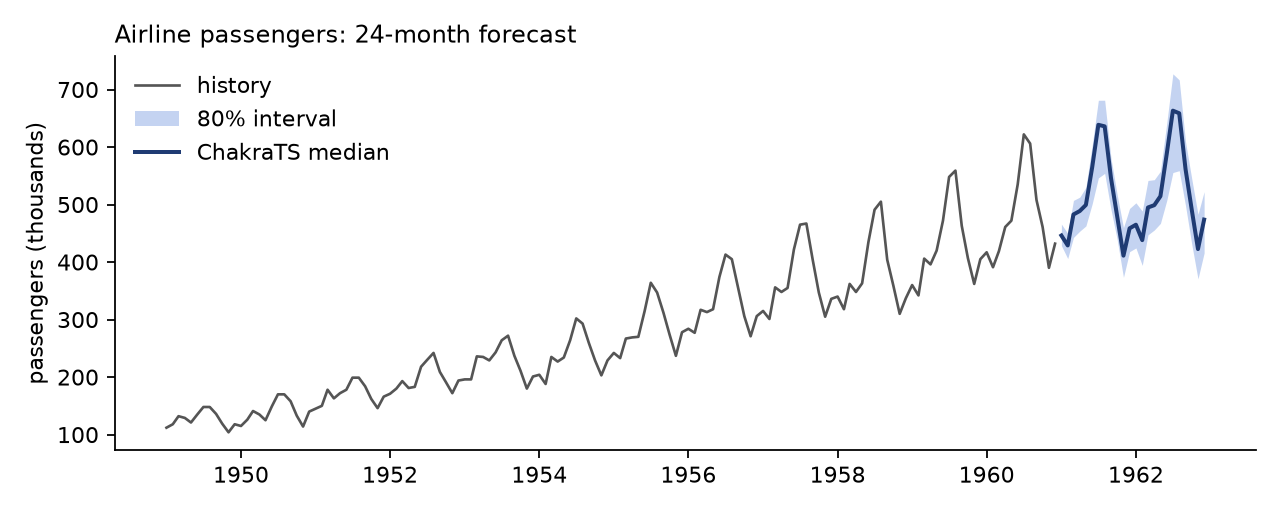
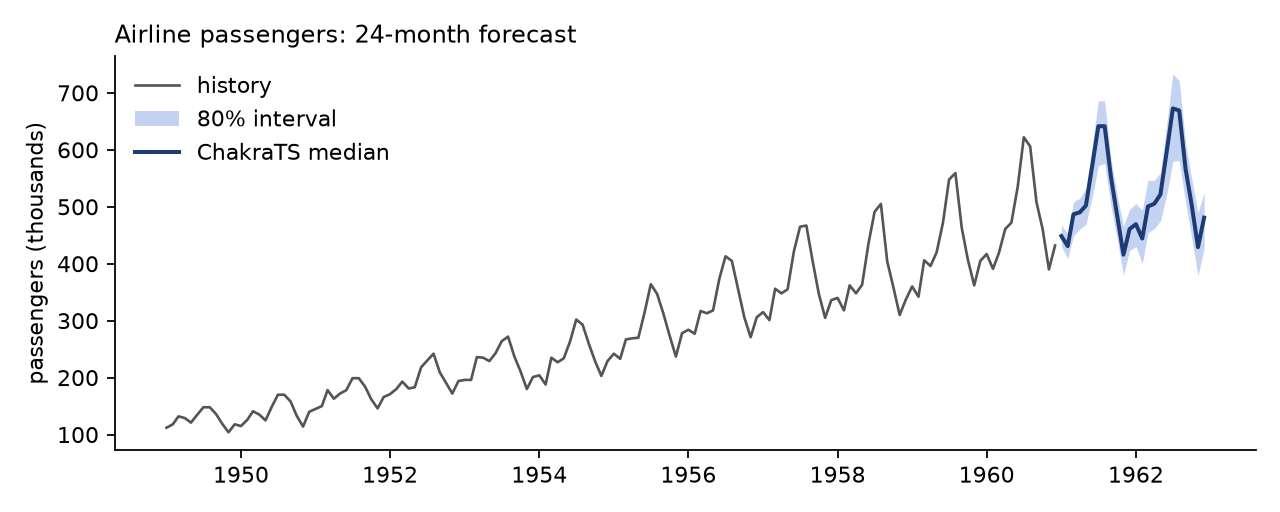
0.2.0: README covers the new forecasting and table features, masking and current outputs; a model starting up is waited for up to 5 minutes; no spurious numpy warnings on macOS

diff --git a/src/yhatlabs/_transport.py b/src/yhatlabs/_transport.py
@@ -150,6 +150,18 @@ def _is_streamed(resp: httpx.Response) -> bool:
     return resp.status_code == 200 and _streamed_error(_json(resp)) is not None
 
 
+COLD_START_S = 300.0  # a model scaled to zero takes a few minutes to start; its 503s are waited out this long
+
+
+def _waking(resp: httpx.Response) -> bool:
+    """A 503 sent before the call reached the model (it is starting), as opposed to one after a long fit."""
+    return resp.status_code == 503 and "starting up" in str(((_json(resp) or {}).get("error") or {}).get("message", ""))
+
+
+def _waking_wait(until: float) -> float:
+    return max(0.0, min(15.0, until - time.monotonic()))
+
+
 def _should_retry(resp: httpx.Response, streamed_retries: int = 0) -> bool:
     status = resp.status_code
     if status == 200:
@@ -226,8 +238,9 @@ class SyncTransport:
         url = f"{self.base_url}{path}"
         body, headers = _prepare(method, json, self.headers(), self.gzip)
         last_resp: Optional[httpx.Response] = None
-        streamed_retries = 0
-        for attempt in range(self.max_retries + 1):
+        streamed_retries, waking_until = 0, None
+        attempt = 0
+        while attempt <= self.max_retries:
             t0 = time.monotonic()
             try:
                 resp = self.http.request(
@@ -241,19 +254,27 @@ class SyncTransport:
                 _log(method, path, None, t0, attempt, "timed out")
                 if attempt < self.max_retries:
                     time.sleep(_backoff(attempt, None))
+                    attempt += 1
                     continue
                 raise APITimeoutError(f"The request to {path} timed out after {self.timeout:.0f}s.") from e
             except httpx.TransportError as e:
                 _log(method, path, None, t0, attempt, f"connection error: {type(e).__name__}")
                 if attempt < self.max_retries:
                     time.sleep(_backoff(attempt, None))
+                    attempt += 1
                     continue
                 raise APIConnectionError(f"Could not reach {self.base_url}: {e}") from e
             last_resp = resp
             _log(method, path, resp, t0, attempt)
+            if _waking(resp):  # waited out apart from max_retries, up to COLD_START_S
+                waking_until = waking_until or time.monotonic() + COLD_START_S
+                if time.monotonic() < waking_until:
+                    time.sleep(_waking_wait(waking_until))
+                    continue
             if attempt < self.max_retries and _should_retry(resp, streamed_retries):
                 streamed_retries += _is_streamed(resp)
                 time.sleep(_backoff(attempt, resp))
+                attempt += 1
                 continue
             return _decode(resp)
         return _decode(last_resp)  # pragma: no cover
@@ -309,8 +330,9 @@ class AsyncTransport:
         url = f"{self.base_url}{path}"
         body, headers = _prepare(method, json, self.headers(), self.gzip)
         last_resp: Optional[httpx.Response] = None
-        streamed_retries = 0
-        for attempt in range(self.max_retries + 1):
+        streamed_retries, waking_until = 0, None
+        attempt = 0
+        while attempt <= self.max_retries:
             t0 = time.monotonic()
             try:
                 resp = await self.http.request(
@@ -324,19 +346,27 @@ class AsyncTransport:
                 _log(method, path, None, t0, attempt, "timed out")
                 if attempt < self.max_retries:
                     await asyncio.sleep(_backoff(attempt, None))
+                    attempt += 1
                     continue
                 raise APITimeoutError(f"The request to {path} timed out after {self.timeout:.0f}s.") from e
             except httpx.TransportError as e:
                 _log(method, path, None, t0, attempt, f"connection error: {type(e).__name__}")
                 if attempt < self.max_retries:
                     await asyncio.sleep(_backoff(attempt, None))
+                    attempt += 1
                     continue
                 raise APIConnectionError(f"Could not reach {self.base_url}: {e}") from e
             last_resp = resp
             _log(method, path, resp, t0, attempt)
+            if _waking(resp):
+                waking_until = waking_until or time.monotonic() + COLD_START_S
+                if time.monotonic() < waking_until:
+                    await asyncio.sleep(_waking_wait(waking_until))
+                    continue
             if attempt < self.max_retries and _should_retry(resp, streamed_retries):
                 streamed_retries += _is_streamed(resp)
                 await asyncio.sleep(_backoff(attempt, resp))
+                attempt += 1
                 continue
             return _decode(resp)
         return _decode(last_resp)  # pragma: no cover

diff --git a/tests/test_robustness.py b/tests/test_robustness.py
@@ -118,3 +118,28 @@ def test_large_bodies_gzip_only_when_the_api_says_so(client, api):
     assert client._t.gzip
     client.limits = Limits()
     assert not client._t.gzip
+
+
+def test_a_model_starting_up_is_waited_out_beyond_max_retries(client, api, hourly, monkeypatch):
+    from yhatlabs import _transport
+
+    monkeypatch.setattr(_transport, "_waking_wait", lambda until: 0.0)
+    waking = {
+        "error": {
+            "type": "model_unavailable",
+            "message": "The model is temporarily unavailable. It may be starting up; retry in a minute or two.",
+        }
+    }
+    api.script = [(503, waking)] * 6  # more than max_retries (3)
+    fc = client.forecast(hourly, h=6)
+    assert len(fc.df) == 12
+
+
+def test_other_503s_stop_at_max_retries(client, api, hourly):
+    import pytest
+
+    from yhatlabs import ServiceUnavailableError
+
+    api.script = [(503, {"error": {"type": "model_unavailable", "message": "The model did not answer in time."}})] * 6
+    with pytest.raises(ServiceUnavailableError):
+        client.forecast(hourly, h=6)

diff --git a/src/yhatlabs/_profile.py b/src/yhatlabs/_profile.py
@@ -89,7 +89,8 @@ def _nn(a: Dict[str, np.ndarray], b: Dict[str, np.ndarray], skip_self: bool = Fa
     bsq = (bn**2).sum(axis=1)
     for i in range(0, len(out), CHUNK):
         an, ac = a["num"][i : i + CHUNK], a["cat"][i : i + CHUNK]
-        d2 = (an**2).sum(axis=1)[:, None] + bsq[None, :] - 2 * an @ bn.T
+        with np.errstate(all="ignore"):  # numpy 2.0 on macOS (Accelerate) warns on finite matmuls; the values are right
+            d2 = (an**2).sum(axis=1)[:, None] + bsq[None, :] - 2 * an @ bn.T
         for j in range(ac.shape[1]):
             d2 += (ac[:, j : j + 1] != bc[None, :, j]) | (ac[:, j : j + 1] < 0)
         if skip_self:

diff --git a/src/yhatlabs/_version.py b/src/yhatlabs/_version.py
@@ -1,1 +1,1 @@
-__version__ = "0.1.1"
+__version__ = "0.2.0"

diff --git a/README.md b/README.md
@@ -69,9 +69,9 @@ print(fc.df.head(3))
 
 ```
   unique_id      Month    q10  median    q90
-0  series_0 1961-01-01  428.7   446.2  466.0
-1  series_0 1961-02-01  406.1   428.9  449.8
-2  series_0 1961-03-01  442.7   482.7  507.2
+0  series_0 1961-01-01  430.5   448.5  468.0
+1  series_0 1961-02-01  408.9   430.9  452.0
+2  series_0 1961-03-01  449.0   486.7  508.2
 ```
 
 ![Airline passengers forecast with an 80% interval](https://raw.githubusercontent.com/yhatlabs/yhatlabs-python/main/docs/images/forecast.png)
@@ -85,6 +85,9 @@ timestamps and splits large inputs into requests for you.
 | Goal | Call |
 |---|---|
 | Forecast with a range of outcomes | `yh.forecast(df, h)` |
+| Wide intervals for rare outcomes (95%, 99%) | `yh.forecast(df, h, level=[95, 99])` |
+| Totals, peaks and runs over the horizon | `yh.forecast(df, h, samples=1000)`, then `fc.sample_paths()` |
+| The chance of crossing a limit | `fc.prob(above=limit)` |
 | Use inputs you know ahead (prices, weather, promotions) | `yh.forecast(df, h, known=[...], future=...)` |
 | Add calendar effects (hour, weekday, holidays) | `yh.forecast(df, h, calendar=True)` |
 | Measure accuracy on your own history | `yh.evaluate(df, h, windows=3)` |
@@ -92,6 +95,7 @@ timestamps and splits large inputs into requests for you.
 | Ask "what if" (a heatwave, a price change) | `yh.scenarios(df, h, {"base": f0, "heatwave": f1}, known=[...])` |
 | Flag unusual points | `yh.detect_anomalies(df)` |
 | Fill gaps inside series | `yh.fill_gaps(df)` |
+| Forecasts that add up (stores, regions, total) | `yhatlabs.hierarchy.aggregate(...)`, then `hierarchy.reconcile(fc, tree)` |
 
 ### Inputs and uncertainty
 
@@ -117,10 +121,12 @@ fc.plot(history=df)
 ```
 
 - **Uncertainty:** the default is the median plus the 0.1 and 0.9 quantiles.
-  - `quantiles=` takes any levels between 0.1 and 0.9.
-  - `level=[80]` gives central intervals.
-  - `quantiles="all"` returns every level the model produces.
-  - Levels between those are interpolated and listed in `fc.derived`, so nothing derived is presented as a model output.
+  - `quantiles=` takes any levels strictly between 0 and 1, and `level=[80, 95, 99]` gives central intervals by width.
+  - Intervals are calibrated on each series' own past windows, so an 80% interval holds about 80% of the time there.
+  - `quantiles="all"` returns every level the model produces; levels between those are interpolated and listed in
+    `fc.derived`.
+  - `mean=True` adds the mean, for forecasts you will add up; `samples=N` returns sample paths; `history=True` returns
+    the model's forecasts of earlier windows.
 - **Covariates:**
   - `known=[...]` are columns you know ahead, with their future values in `future=`;
   - `past=[...]` are observed only in the history;
@@ -189,7 +195,7 @@ print(res.df.head(3))
 ```
      prediction    p_0    p_1
 512           0  1.000  0.000
-457           1  0.018  0.982
+457           1  0.013  0.987
 439           1  0.000  1.000
 ```
 
@@ -213,11 +219,16 @@ model.importance(holdout)
 |---|---|
 | Classify (with probabilities) or regress | `yh.fit(train, target).predict(test)` |
 | Get prediction intervals for numbers | `model.predict(test, quantiles=[0.05, 0.95])` |
+| Get sets of likely classes | `model.predict(test, set_coverage=0.9).prediction_sets` |
+| Validate on new machines, patients or periods | `yh.fit(train, target, groups="machine")` or `time_col="date"` |
+| Measure accuracy and calibration on your table | `yh.evaluate_table(df, target, cv=5)` |
+| See how one column moves the prediction | `model.effect("temperature")` |
 | See which columns matter | `model.importance(holdout)` |
 | Reuse a fit later, anywhere | `model.save("model.json")`, then `yhatlabs.load("model.json")` |
 | Predict once, keeping nothing | `yh.predict(train, target, test)` |
 | Fill missing cells | `yh.impute(df)` |
 | Use it in scikit-learn | `ChakraTabClassifier()`, `ChakraTabRegressor()` |
+| Know the cost before you run | `yh.estimate_table(train, target=..., test=...)` |
 
 ### Fitting, intervals and importance
 
@@ -227,9 +238,12 @@ sending the training data again.
 - **Lifetime:** a fit is kept for `ttl_hours` (default 24, up to 168), or until `model.delete()`. A `with yh.fit(...) as
   model:` block deletes it on exit. `model.save(path)` writes a small record, with no training data, that `yhatlabs.load()`
   reattaches anywhere.
-- **Classes and numbers:** classification returns `predictions` and `probabilities`. Regression returns `predictions` and,
-  with `quantiles=`, intervals built from out-of-sample errors, so a 90% interval holds about 90% of new values. Pass
-  `task="classify"` or `task="regress"` for integer targets, which could be either.
+- **Classes and numbers:** classification returns `predictions` and `probabilities`, and with `set_coverage=` a set of
+  classes per row that holds the true one that often. Regression returns `predictions` and, with `quantiles=`, an interval
+  from a calibrated distribution for every row: wider where the row is harder to call or lies outside the training data.
+  Pass `task="classify"` or `task="regress"` for integer targets, which could be either.
+- **Rows that belong together:** with `groups="machine"` (or `time_col=` for rows over time), validation holds out whole
+  groups or later periods, so scores and intervals hold for groups the model has not seen.
 - **Presets:** `fast` is the default; `medium` is more accurate and about 3x slower. `eval_metric=`, `time_limit=` and
   `seed=` are also accepted.
 - **Importance:** how much the score drops when a column is shuffled. Labeled rows the model has not seen give the most honest
@@ -319,6 +333,7 @@ The defaults suit most work. These settings are there for long jobs, self-hosted
 | Server | `base_url=` or `YHAT_BASE_URL` (default `https://api.yhatlabs.com`) |
 | Timeout and retries | `timeout=` (default 300 s), `max_retries=` (default 3); for a single call, `yh.with_options(timeout=1800)` |
 | Parallel requests | `max_concurrency=` (default 4) |
+| Column names | `mask_columns=True` sends them as `c0`, `c1`, ...; results keep your names (default off) |
 | Request logging | `YHAT_LOG=info`: method, path, status, time and request id (never data or keys) |
 | Activity line | shown in terminals for calls over 2 s; `YHAT_PROGRESS=0` turns it off |
 
@@ -340,7 +355,7 @@ Errors tell you whose side the problem is on and what to do next. Temporary prob
 - **From the API:** `APIError` and its subclasses (`AuthenticationError`, `RateLimitError`, `ServiceUnavailableError`, ...)
   carry `.status`, `.type` and `.request_id`. Quote the request id to us and we can trace the call.
 - **Retries:** timeouts, connection errors, 408, 409, 429 and 5xx are retried with backoff, honouring `Retry-After`. A
-  used-up quota is not retried.
+  used-up quota is not retried. Every POST carries an `Idempotency-Key`, so a retried call never runs twice.
 - **Partial results:** for large forecasts, `on_error="warn"` returns the series from batches that succeeded and lists the
   rest in `fc.errors`.
 
@@ -352,6 +367,8 @@ Errors tell you whose side the problem is on and what to do next. Temporary prob
 Your inputs are sent to the YHat Labs API to be processed.
 - **One-shot calls:** nothing is kept beyond our request archive.
 - **Fits:** a fitted model keeps its training table only until it expires or you delete it.
+- **Large tables:** with the `[parquet]` extra, tables over 8 MB are uploaded once and reused by reference.
+- **Column names:** `mask_columns=True` keeps them on your machine; values are sent as they are.
 - **More:** see [SECURITY.md](SECURITY.md) for how keys and data are handled, and how to report a security issue.
 
 </details>

diff --git a/CHANGELOG.md b/CHANGELOG.md
@@ -1,7 +1,9 @@
 # Changelog
 
-## Unreleased
+## 0.2.0 (2026-10-15)
 
+- A model that is starting up (its first call after a quiet period) is waited for, up to 5 minutes, instead of failing
+  after the usual retries.
 - **Breaking:** the API paths name the input, then the task: `POST /v1/series/forecast`, `POST /v1/table/predict` and
   `/v1/table/fits/...`. Releases up to 0.1.1 call the old paths, which the API no longer serves.
 - `mask_columns=True` (on `Client`, `with_options` or any call that sends a table or series) sends column names as `c0`, `c1`,
